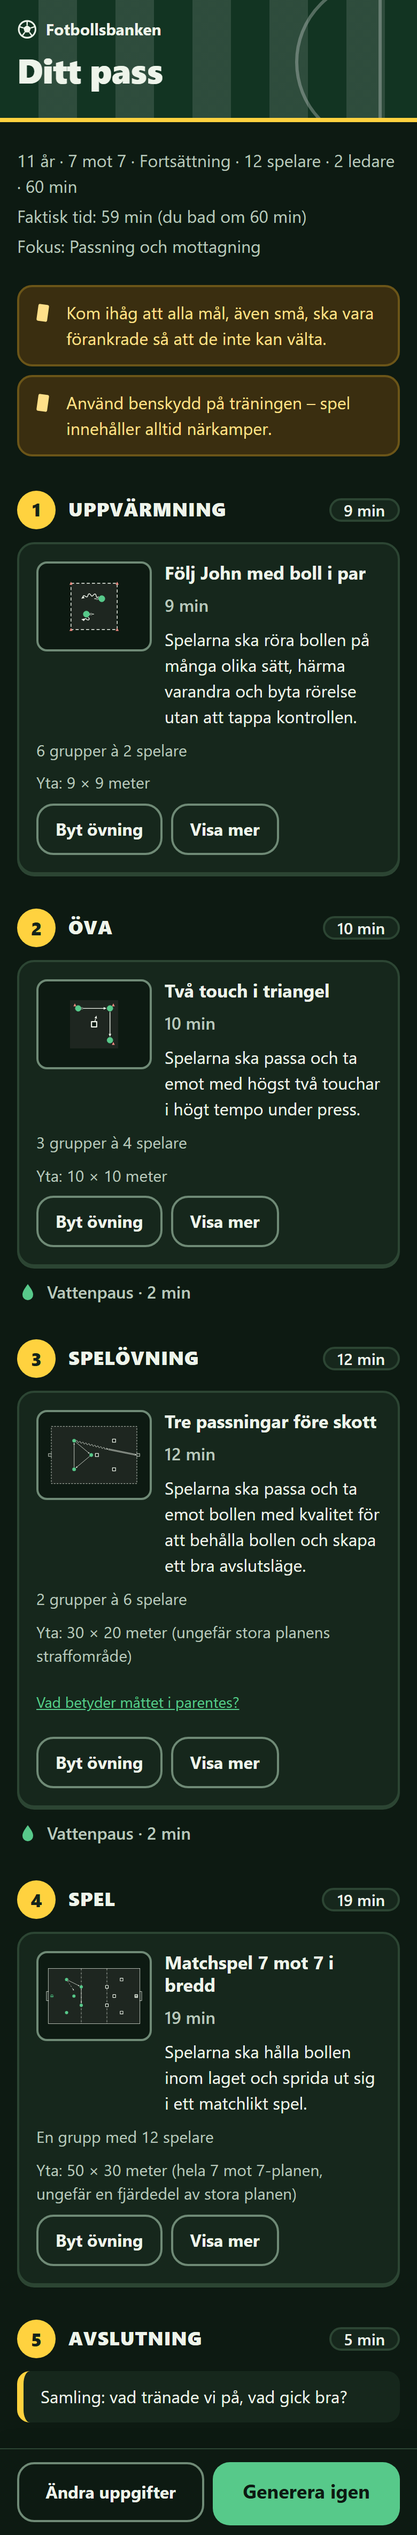
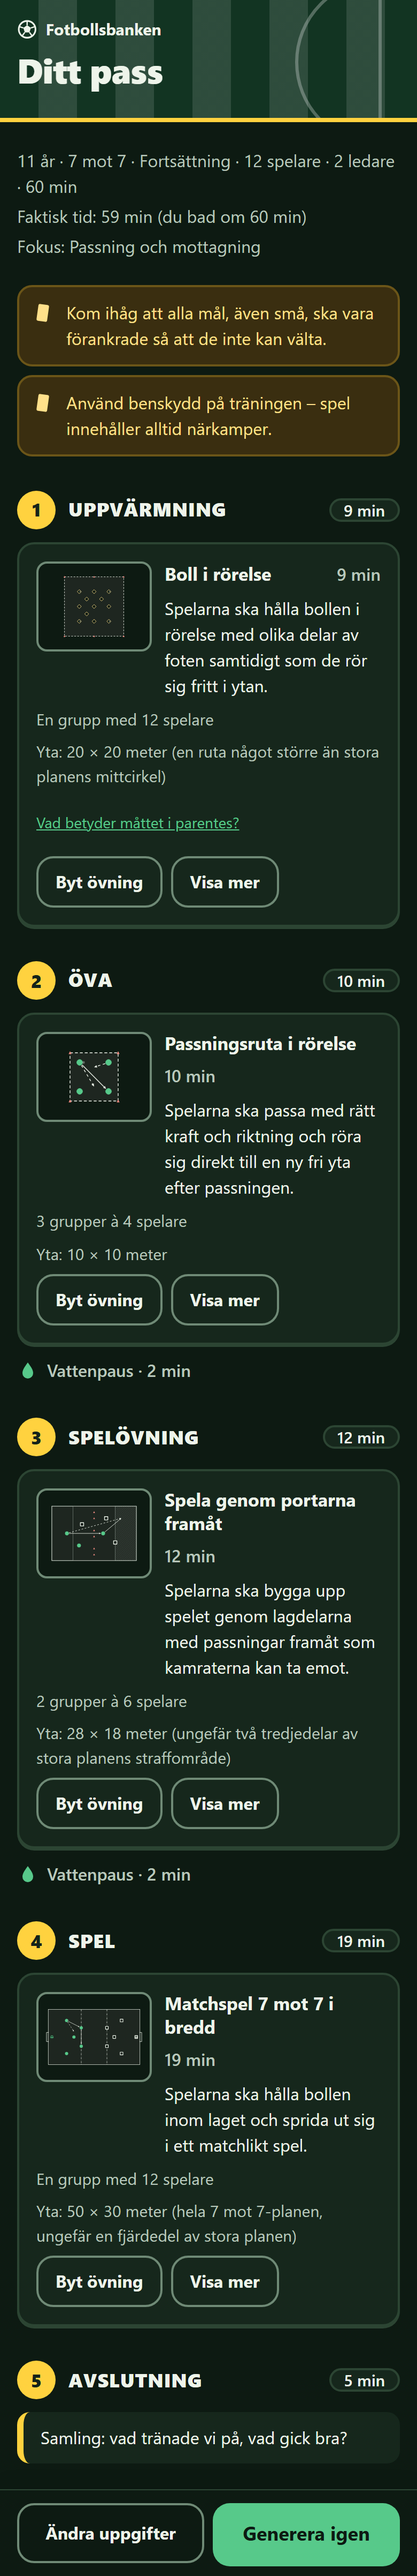
Rätta ytraden, den fasta knappraden och fokusflytten i sidhuvudet
Ytraden har hårda mellanslag bara inuti "{längd} × {bredd} meter", enligt
texter.md avsnitt 4, så att den inte bryts mitt i ett ord vid stor text.
Knappraden i underlaget och passet är fast bara när den tar högst en
fjärdedel av höjden (designsystem.md 6.10). focusHeading i PageHeader är
dokumenterad som en konstant för vyn, med ett test för omritning
(säkerhetsgranskningen, F1).

diff --git a/src/app/session/ExerciseCard.test.tsx b/src/app/session/ExerciseCard.test.tsx
@@ -56,14 +56,14 @@ describe('ADR 0017 ytreferensens uppslagning per spelform', () => {
       },
       '5mot5',
     );
-    expect(markup).toContain('Yta:\u00a018\u00a0×\u00a012\u00a0meter');
+    expect(markup).toContain('Yta: 18\u00a0×\u00a012\u00a0meter');
     expect(markup).not.toContain('ert eget straffområde');
     expect(markup).not.toMatch(/meter\s*\(/u);
   });
 
   it('måttet visas med svenskt decimaltecken, med och utan referens', () => {
     const withoutReference = cardHtml({ yta: { alla: { langd: 18.5, bredd: 12.3 } } }, '7mot7');
-    expect(withoutReference).toContain('Yta:\u00a018,5\u00a0×\u00a012,3\u00a0meter');
+    expect(withoutReference).toContain('Yta: 18,5\u00a0×\u00a012,3\u00a0meter');
 
     const withReference = cardHtml(
       {
@@ -73,16 +73,17 @@ describe('ADR 0017 ytreferensens uppslagning per spelform', () => {
       '7mot7',
     );
     expect(withReference).toContain(
-      'Yta:\u00a018,5\u00a0×\u00a012,3\u00a0meter\u00a0(ungefär en fjärdedel av stora planen)',
+      'Yta: 18,5\u00a0×\u00a012,3\u00a0meter (ungefär en fjärdedel av stora planen)',
     );
   });
 
   /*
-   * docs/design/texter.md avsnitt 4: "Yta: {mått} meter (" hålls ihop med hårda mellanslag,
-   * så att "×" eller "(" aldrig hamnar ensamt på en rad. Referensen bryter fritt och behåller
-   * sina vanliga mellanslag.
+   * docs/design/texter.md avsnitt 4 (ändrat 2026-10-12): bara "{längd} × {bredd} meter" hålls
+   * ihop med hårda mellanslag, så att "×" eller "meter" aldrig hamnar ensamt på en rad. Efter
+   * "Yta:" och före "(" står vanliga mellanslag, så att inget helt ord knyts ihop med resten
+   * av raden och bryts mitt i vid stor text. Referensen bryter fritt.
    */
-  it('måttet och parentesens början hålls ihop, referensen bryter fritt', () => {
+  it('måttet hålls ihop, och raden kan brytas efter "Yta:" och före parentesen', () => {
     const markup = cardHtml(
       {
         yta: { alla: { langd: 18, bredd: 12 } },
@@ -92,8 +93,12 @@ describe('ADR 0017 ytreferensens uppslagning per spelform', () => {
     );
     const line = /Yta:[^<]*\)/u.exec(markup)?.[0] ?? '';
     const [measure = '', reference = ''] = line.split('(');
-    expect(measure).toBe('Yta:\u00a018\u00a0×\u00a012\u00a0meter\u00a0');
-    expect(measure).not.toContain(' ');
+    expect(line).toBe(
+      'Yta: 18\u00a0×\u00a012\u00a0meter (stora planens målområde, dubbelt så djupt)',
+    );
+    expect(measure).toBe('Yta: 18\u00a0×\u00a012\u00a0meter ');
+    // Bara två vanliga mellanslag före parentesen: efter "Yta:" och före "(".
+    expect(measure.match(/ /gu)).toHaveLength(2);
     expect(reference).toBe('stora planens målområde, dubbelt så djupt)');
     expect(reference).not.toContain('\u00a0');
   });

diff --git a/src/app/ui/ui.test.tsx b/src/app/ui/ui.test.tsx
@@ -4,7 +4,7 @@
  * Riktning A, Gräsmattan (docs/design/visuell-design-byggbeskrivning.md): sidhuvudet, ikonerna
  * och passdelens rubrik får nytt utseende, men de tillgängliga namnen är desamma som förut.
  */
-import { afterEach, describe, expect, it } from 'vitest';
+import { afterEach, describe, expect, it, vi } from 'vitest';
 import { cleanup, render, screen } from '@testing-library/react';
 import '@testing-library/jest-dom/vitest';
 import { Icon } from './Icon.tsx';
@@ -19,6 +19,7 @@ import {
 
 afterEach(() => {
   cleanup();
+  vi.restoreAllMocks();
 });
 
 function renderSession(bank = FULL_BANK) {
@@ -65,6 +66,33 @@ describe('Sidhuvudet (designsystem.md avsnitt 6.10)', () => {
     const heading = screen.getByRole('heading', { level: 1, name: 'Byt övning: Öva' });
     expect(heading).toHaveFocus();
     expect(heading).toHaveAttribute('tabindex', '-1');
+  });
+
+  /*
+   * Säkerhetsgranskningen av den visuella designen, F1: focusHeading är en konstant för vyn.
+   * Ritas vyn om med samma värde och en ny rubrik, till exempel när bytet gäller en annan
+   * del, ska rubriken inte monteras om och fokus ska stanna där ledaren har det.
+   */
+  it('flyttar inte fokus när vyn ritas om med samma focusHeading och ny rubrik', () => {
+    const view = (heading: string) => (
+      <>
+        <PageHeader heading={heading} focusHeading />
+        <button type="button">Sök</button>
+      </>
+    );
+    const { rerender } = render(view('Byt övning: Öva'));
+    const first = screen.getByRole('heading', { level: 1, name: 'Byt övning: Öva' });
+    expect(first).toHaveFocus();
+
+    const button = screen.getByRole('button', { name: 'Sök' });
+    button.focus();
+    const focus = vi.spyOn(HTMLElement.prototype, 'focus');
+    rerender(view('Byt övning: Spel'));
+
+    const second = screen.getByRole('heading', { level: 1, name: 'Byt övning: Spel' });
+    expect(second).toBe(first);
+    expect(button).toHaveFocus();
+    expect(focus).not.toHaveBeenCalled();
   });
 
   it('det som skickas in står före rubriken', () => {

diff --git a/src/app/view.test.tsx b/src/app/view.test.tsx
@@ -83,23 +83,21 @@ describe('Berättelse 02: det genererade passet', () => {
    */
   it('ADR 0017 visar ytans mått i meter på varje övningskort', () => {
     const markup = sessionHtml();
-    expect(markup).toContain('Yta:\u00a020\u00a0×\u00a020\u00a0meter');
+    expect(markup).toContain('Yta: 20\u00a0×\u00a020\u00a0meter');
   });
 
   it('ADR 0017 visar ytreferensen i parentes efter måttet', () => {
     const markup = sessionHtml(BANK_WITH_AREA_REFERENCE);
-    expect(markup).toContain(
-      'Yta:\u00a020\u00a0×\u00a020\u00a0meter\u00a0(något större än mittcirkeln)',
-    );
+    expect(markup).toContain('Yta: 20\u00a0×\u00a020\u00a0meter (något större än mittcirkeln)');
   });
 
   it('ADR 0017 visar måttet utan parentes när övningen saknar ytreferens', () => {
     // Fixturbanken har inga ytreferenser alls: raden ser ut precis som förut.
-    expect(sessionHtml()).toMatch(/Yta:\u00a020\u00a0×\u00a020\u00a0meter(?!\s*\()/u);
+    expect(sessionHtml()).toMatch(/Yta: 20\u00a0×\u00a020\u00a0meter(?!\s*\()/u);
     expect(sessionHtml()).not.toMatch(/meter\s*\(/u);
     // I banken med en referens är det bara uppvärmningen som får sin parentes.
     expect(sessionHtml(BANK_WITH_AREA_REFERENCE)).toMatch(
-      /Yta:\u00a020\u00a0×\u00a020\u00a0meter(?!\s*\()/u,
+      /Yta: 20\u00a0×\u00a020\u00a0meter(?!\s*\()/u,
     );
   });
 

diff --git a/src/app/text/texts.ts b/src/app/text/texts.ts
@@ -70,12 +70,13 @@ export const TEXTS = {
      * ytreferensen följer efter i parentes när övningen har en, och raden ser ut som i dag
      * när den saknas — ingen tom parentes och ingen platshållare.
      *
-     * Se docs/design/texter.md avsnitt 4. "Yta: {size} meter (" hålls ihop med hårda
-     * mellanslag (U+00A0), så att måttet och parentesens början aldrig bryts isär; själva
-     * referensen har vanliga mellanslag och bryter fritt.
+     * Se docs/design/texter.md avsnitt 4 (ändrat 2026-10-12). Bara "{längd} × {bredd} meter"
+     * hålls ihop med hårda mellanslag (U+00A0): `{size}` har dem runt "×", och här står ett
+     * före "meter". Efter "Yta:" och före "(" står vanliga mellanslag, så att inget helt ord
+     * knyts ihop med resten av raden och bryts mitt i vid stor text. Referensen bryter fritt.
      */
-    area: 'Yta:\u00a0{size}\u00a0meter',
-    areaWithReference: 'Yta:\u00a0{size}\u00a0meter\u00a0({reference})',
+    area: 'Yta: {size}\u00a0meter',
+    areaWithReference: 'Yta: {size}\u00a0meter ({reference})',
     /**
      * Ytförklaringen (docs/design/texter.md avsnitt 4, uppföljning till ADR 0017): visas bara
      * på det första kortet i passet vars yta har en ytreferens, så att referensen läses som en

diff --git a/src/app/session/SessionView.module.css b/src/app/session/SessionView.module.css
@@ -171,9 +171,13 @@
   box-shadow: 0 -6px 16px rgb(0 0 0 / 6%);
 }
 
-/* Vid 200 % text vid 390 px skulle knappraden ta en tredjedel av skärmen. Där ligger den
-   sist i passet i stället för att vara fast. */
-@media (max-width: 20em) {
+/*
+ * Knappraden är fast bara när den tar högst en fjärdedel av den synliga höjden (designsystem.md
+ * avsnitt 6.10). Annars ligger den sist i passet. Raden är cirka 90 px hög på en rad, så den
+ * släpps under 24em (384 px) höjd. På smal skärm, under 20em, står knapparna under varandra
+ * och raden blir dubbelt så hög. Frågorna är i em, så att de följer zoom och textstorlek.
+ */
+@media (max-width: 20em), (max-height: 24em) {
   .actions {
     position: static;
     box-shadow: none;

diff --git a/src/app/ui/PageHeader.tsx b/src/app/ui/PageHeader.tsx
@@ -17,6 +17,10 @@ interface PageHeaderProps {
   /**
    * Flyttar fokus till rubriken när vyn visas, som i bytesvyn (skisser/04-byt-ovning.md).
    * Rubriken får då `tabIndex={-1}`, så att den kan ta fokus utan att hamna i tabbordningen.
+   *
+   * **Värdet ska vara en konstant för vyn** (säkerhetsgranskningen av den visuella designen,
+   * F1). Byts det medan vyn visas, monteras rubriken om och fokus kan flyttas utan att
+   * ledaren gjort något. Rubrikens text får ändras: fokus flyttas bara när rubriken monteras.
    */
   focusHeading?: boolean;
   /** Det som står före rubriken i bandet, till exempel en tillbaka-knapp. */

diff --git a/src/app/input/InputForm.module.css b/src/app/input/InputForm.module.css
@@ -150,6 +150,16 @@
   box-shadow: 0 -6px 16px rgb(0 0 0 / 6%);
 }
 
+/* Knappraden är fast bara när den tar högst en fjärdedel av den synliga höjden
+   (designsystem.md avsnitt 6.10), annars ligger den sist i formuläret. Samma gräns som i
+   passet: raden är cirka 90 px hög och släpps under 24em (384 px) höjd. */
+@media (max-height: 24em) {
+  .submitBar {
+    position: static;
+    box-shadow: none;
+  }
+}
+
 /* Primärknapp (designsystem.md avsnitt 6.1): 56 px i knappraden, 18 px/700. */
 .submit {
   min-height: 56px;
